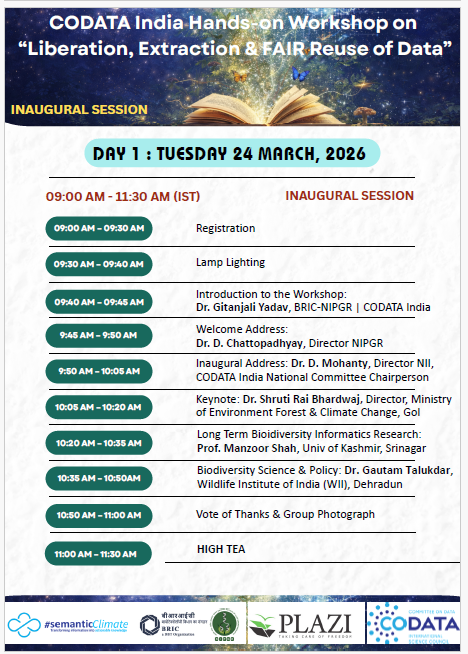
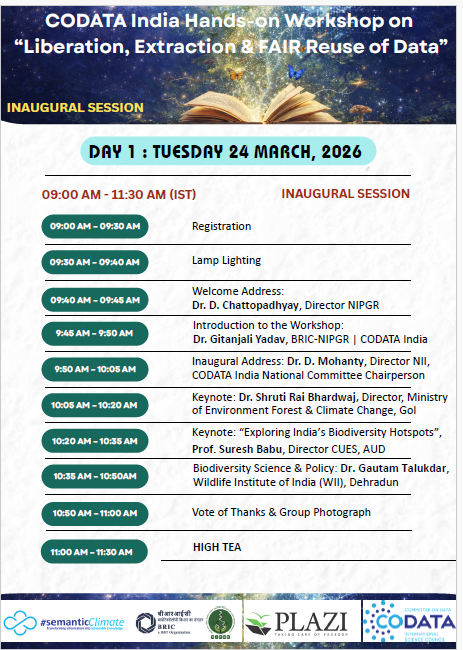
added pictures

Changed region(s): [[0.0, 0.0, 0.9978, 1.0]]

diff --git a/en/events/biodiv_March.md b/en/events/biodiv_March.md
@@ -98,7 +98,7 @@ This introduces participants to practical methods for extracting biodiversity da
 
 ### Program 
 
-- #### [CLICK HERE to read full program](https://drive.google.com/file/d/1gZ9xGszMBkZdIaR9RDw40vjczoigZRGa/view?usp=sharing)
+- #### [CLICK HERE to read full program](https://drive.google.com/file/d/1MnE29xQZsccMgyrUB0PvsCnj7LLdpqlF/view?usp=sharing)
 
 ### Day 1 (24 March, 2026) : INAUGURAL SESSION 
 <table>
